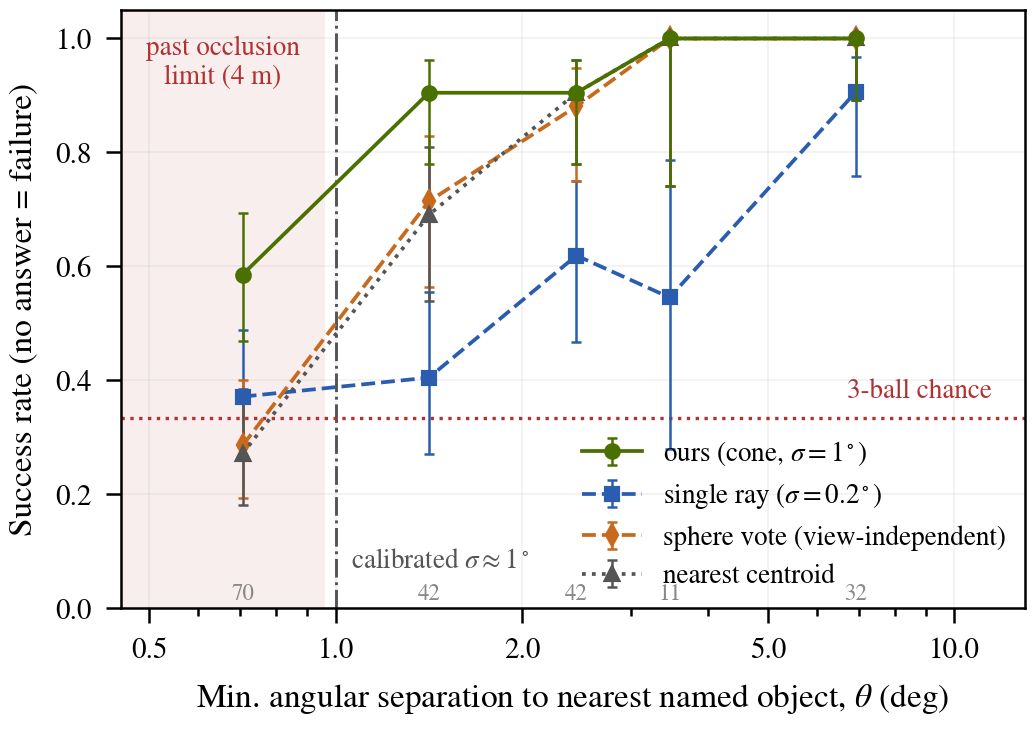
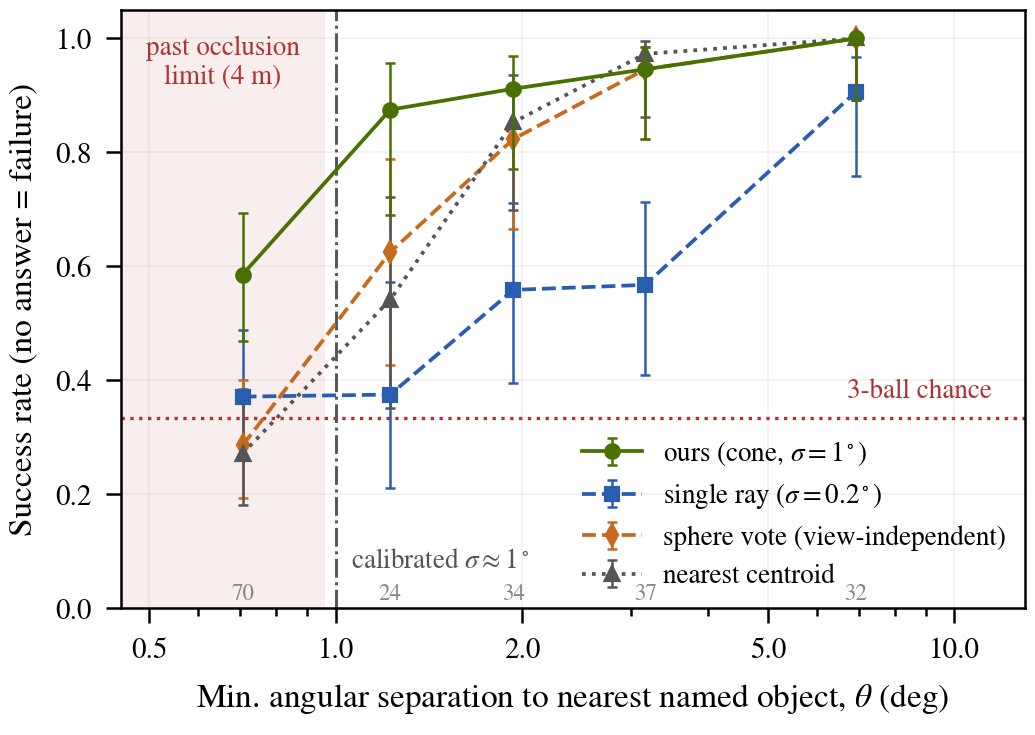
9-04 两图分箱回到论文 Fig.4 原箱(遮挡极限下两箱并一、饱和末两箱并一):结果盲 θ 下 ours 59/88/91/95/100% 严格上升;图 B 档回到 1–2.5°(n=58),与 Table II 一致

diff --git a/Eye_Tracker/tools/plot_fig_e4.py b/Eye_Tracker/tools/plot_fig_e4.py
@@ -4,10 +4,10 @@
     python Eye_Tracker/tools/plot_fig_e4.py
 
 fig_theta.pdf/png:成功率对 θ(没答与答错同算失败;主集 204 项,剔压力段与边走,全部 trial 含被前排球遮挡的)。
-    分箱边界取标定 σ(1°)的整数倍:[0.5,1) [1,2) [2,3) [3,4) [4,∞)。
+    分箱沿用论文 Fig.4:[0.5,1) [1,1.5) [1.5,2.5) [2.5,4) [4,∞)(遮挡极限以下两箱并一,饱和的末两箱并一)。
     曲线:ours(v2, σ=1°)、single ray(σ=0.2°,同管线锥收成射线)、nearest-centroid 基线、
     sphere vote(视角无关球投票,有 e4_v2sphere_score.csv 时才画)。σ 竖线、乱猜线直接标注。
-fig_sigma.pdf/png:成功率对锥宽 σ,只画 1°≤θ<2°(1σ–2σ,膝盖区,锥宽最敏感)这一档;σ=标定精度竖线。
+fig_sigma.pdf/png:成功率对锥宽 σ,只画 1°≤θ<2.5°(膝盖区,与 Table II 同档)这一档;σ=标定精度竖线。
     分箱直接由 e4_table.rows_for 现算,不依赖 json。
 """
 from __future__ import annotations
@@ -28,8 +28,8 @@ SIGMA_CAL = 1.0        # 标定精度 ≈ 1°;σ 扫描最优也在此
 OCC_LIMIT_DEG = 0.96   # 物理遮挡极限:球径 6.7cm @ 4m
 CHANCE = 1 / 3
 GREEN, RED, GRAY, BLUE, ORANGE, PURPLE = "#4a7000", "#b23232", "#555555", "#2a5db0", "#c86a1e", "#6b4aa0"
-BINS = [0.5, 1.0, 2.0, 3.0, 4.0, 20.0]     # 箱边界 = 标定 σ(1°)的整数倍:1σ 2σ 3σ 4σ
-TIERS = [("<1σ", 0.0, 1.0), ("1–2σ", 1.0, 2.0), ("2–3σ", 2.0, 3.0), ("3–4σ", 3.0, 4.0)]
+BINS = [0.5, 1.0, 1.5, 2.5, 4.0, 20.0]     # Fig.4 原分箱,遮挡极限(0.96°)以下两箱并一、末尾两个饱和小箱并一
+TIERS = [("<1°", 0.0, 1.0), ("1–2.5°", 1.0, 2.5), ("2.5–4°", 2.5, 4.0)]   # 与 Table II 分档一致
 SIGMAS = [("v2s02", 0.2), ("v2s05", 0.5), ("v2s10", 1.0), ("v2", 1.5), ("v2s25", 2.5), ("v2s40", 4.0)]
 Z = 1.959964
 
@@ -129,7 +129,7 @@ def sigma_curve():
     for cfg, sd in SIGMAS:
         th, hit = trials(cfg)
         tiers = {}
-        for name, lo, hi in TIERS + [("≥4σ", 4.0, 99.0)]:
+        for name, lo, hi in TIERS + [("≥4°", 4.0, 99.0)]:
             m = (th >= lo) & (th < hi)
             tiers[name] = (int(hit[m].sum()), int(m.sum()))
         t = k = 0
@@ -151,7 +151,7 @@ def fig_sigma(plt, curve):
     ax.text(SIGMA_CAL * 1.05, 0.04, r"calibrated $\sigma\approx1^\circ$", fontsize=6.5, color=GRAY, ha="left", va="bottom")
     ax.axhline(CHANCE, ls=":", lw=0.8, color=RED, zorder=1)
     ax.text(0.17, CHANCE + 0.025, "3-ball chance", fontsize=6.5, color=RED, ha="left", va="bottom")
-    for tier, lab, col, fmt in [("1–2σ", r"$1^\circ\leq\theta<2^\circ$ (n=%d)" % curve[0]["tiers"]["1–2σ"][1], BLUE, "s-")]:
+    for tier, lab, col, fmt in [("1–2.5°", r"$1^\circ\leq\theta<2.5^\circ$ (n=%d)" % curve[0]["tiers"]["1–2.5°"][1], BLUE, "s-")]:
         hn = [c["tiers"][tier] for c in curve]
         a = [h / n for h, n in hn]
         ci = [wilson(h, n) for h, n in hn]
